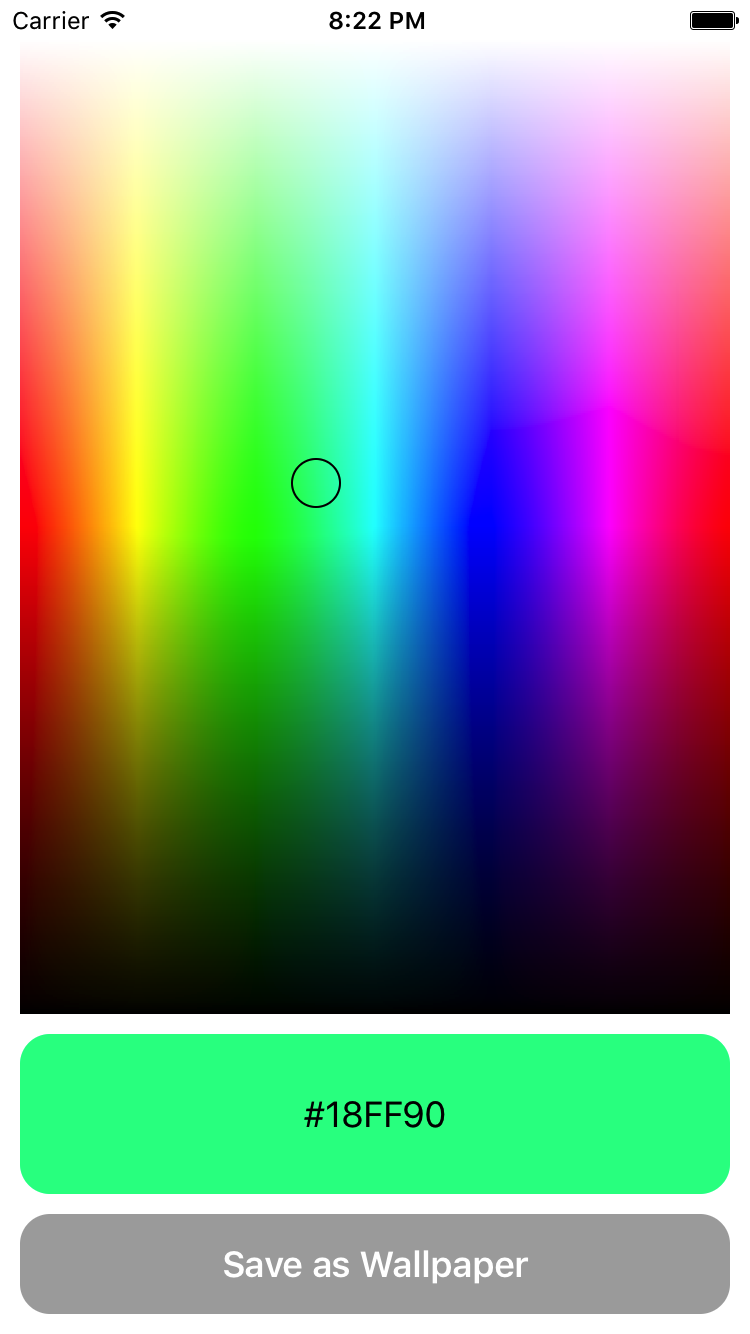
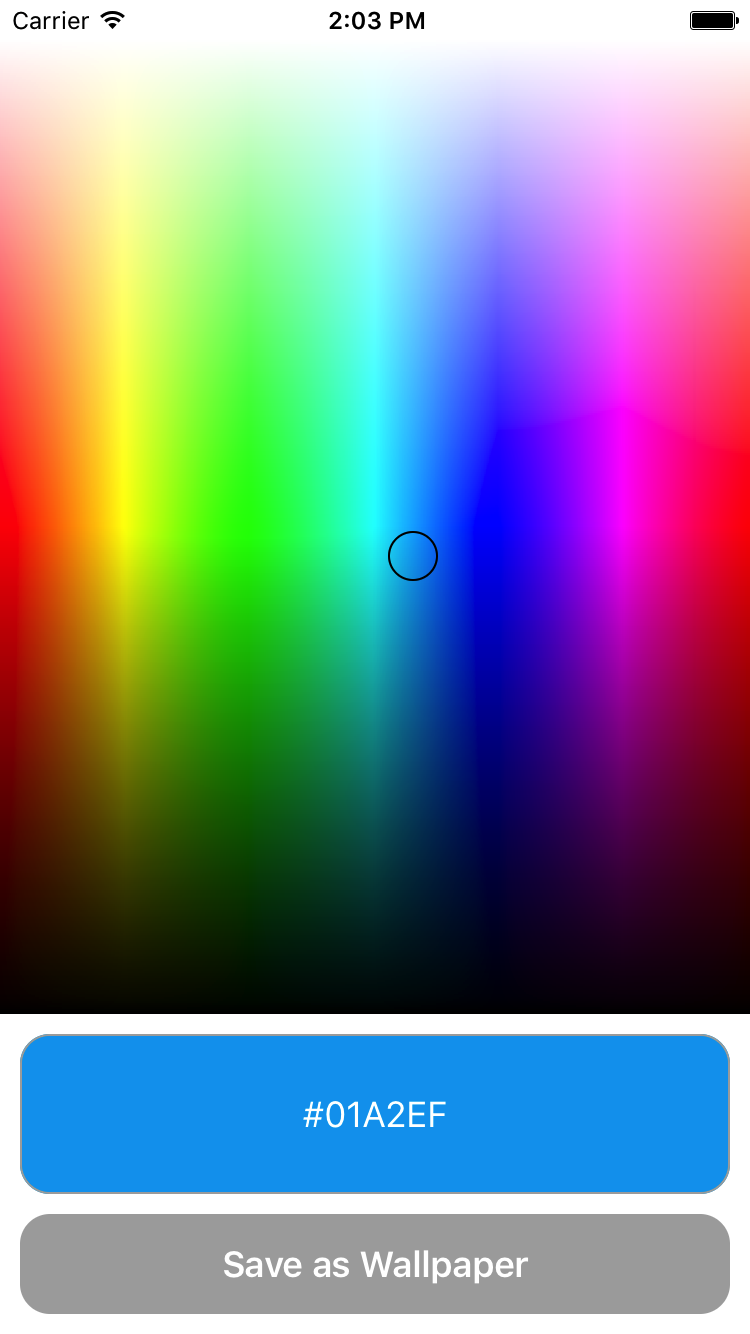
HEX code label color now dependent on background color
Adding a border
Changing up some constraints

diff --git a/ColorWallpaperCreator/ViewController.swift b/ColorWallpaperCreator/ViewController.swift
@@ -13,6 +13,7 @@ class ViewController: UIViewController {
 	private lazy var colorPickerView: ColorPickerView = {
 		let view = ColorPickerView()
 		view.translatesAutoresizingMaskIntoConstraints = false
+		view.isExclusiveTouch = true
 
 		return view
 	}()
@@ -26,6 +27,7 @@ class ViewController: UIViewController {
 		button.backgroundColor = .lightGray
 		button.layer.cornerRadius = 15.0
 		button.addTarget(self, action: #selector(saveColorAsImage), for: .touchUpInside)
+		button.isExclusiveTouch = true
 
 		return button
 	}()
@@ -47,13 +49,13 @@ class ViewController: UIViewController {
 
 	func setUpConstraints() {
 		NSLayoutConstraint.activate([
-			colorPickerView.leftAnchor.constraint(equalTo: view.leftAnchor, constant: 10),
-			colorPickerView.rightAnchor.constraint(equalTo: view.rightAnchor, constant: -10),
+			colorPickerView.leftAnchor.constraint(equalTo: view.leftAnchor),
+			colorPickerView.rightAnchor.constraint(equalTo: view.rightAnchor),
 			colorPickerView.topAnchor.constraint(equalTo: view.topAnchor, constant: 20),
 			colorPickerView.bottomAnchor.constraint(equalTo: saveColorButton.topAnchor, constant: -10),
 
-			saveColorButton.leftAnchor.constraint(equalTo: colorPickerView.leftAnchor),
-			saveColorButton.rightAnchor.constraint(equalTo: colorPickerView.rightAnchor),
+			saveColorButton.leftAnchor.constraint(equalTo: view.leftAnchor, constant: 10),
+			saveColorButton.rightAnchor.constraint(equalTo: view.rightAnchor, constant: -10),
 			saveColorButton.bottomAnchor.constraint(equalTo: view.bottomAnchor, constant: -10),
 			saveColorButton.heightAnchor.constraint(equalToConstant: 50)
 			])
@@ -88,7 +90,7 @@ class ViewController: UIViewController {
 		}
 
 		alertController.addAction(UIAlertAction(title: "Dismiss", style: .default))
-		
+
 		present(alertController, animated: true, completion: nil)
 	}
 }

diff --git a/ColorWallpaperCreator/ColorPickerView.swift b/ColorWallpaperCreator/ColorPickerView.swift
@@ -32,6 +32,8 @@ class ColorPickerView: UIView {
 		let view = UIView()
 		view.translatesAutoresizingMaskIntoConstraints = false
 		view.layer.cornerRadius = 15.0
+		view.layer.borderColor = UIColor.lightGray.cgColor
+		view.layer.borderWidth = 1.0
 
 		return view
 	}()
@@ -77,9 +79,9 @@ class ColorPickerView: UIView {
 			colorSliderNub.heightAnchor.constraint(equalToConstant: 25),
 			colorSliderNub.widthAnchor.constraint(equalTo: colorSliderNub.heightAnchor),
 
-			currentColorView.leftAnchor.constraint(equalTo: colorImageView.leftAnchor),
+			currentColorView.leftAnchor.constraint(equalTo: leftAnchor, constant: 10),
 			currentColorView.topAnchor.constraint(equalTo: colorImageView.bottomAnchor, constant: 10),
-			currentColorView.rightAnchor.constraint(equalTo: colorImageView.rightAnchor),
+			currentColorView.rightAnchor.constraint(equalTo: rightAnchor, constant: -10),
 			currentColorView.heightAnchor.constraint(equalToConstant: 80),
 
 			currentColorHexCodeLabel.leftAnchor.constraint(equalTo: currentColorView.leftAnchor),
@@ -92,6 +94,8 @@ class ColorPickerView: UIView {
 
 	private func setUpGestures() {
 		let panGesture = UIPanGestureRecognizer(target: self, action: #selector(panGestureHandler))
+		panGesture.maximumNumberOfTouches = 1
+
 		addGestureRecognizer(panGesture)
 	}
 
@@ -102,9 +106,10 @@ class ColorPickerView: UIView {
 		case .changed:
 			let color = colorImageView.layer.colorFromPoint(at: point)
 
-			if color.cgColor.alpha <= 0 { return }
+			if color.cgColor.alpha < 1 { return }
 
 			currentColorHexCodeLabel.text = color.hexString
+			currentColorHexCodeLabel.textColor = color.hexTextColor()
 
 			UIView.animate(withDuration: 0.1, animations: {
 				self.currentColorView.backgroundColor = color

diff --git a/ColorWallpaperCreator/Extensions.swift b/ColorWallpaperCreator/Extensions.swift
@@ -40,4 +40,16 @@ extension UIColor {
 
 		return String(format: "#%02lX%02lX%02lX", lroundf(Float(r * 255)), lroundf(Float(g * 255)), lroundf(Float(b * 255)))
 	}
+
+	private func intensity() -> CGFloat {
+		var red: CGFloat = 255.0, green: CGFloat = 255.0, blue: CGFloat = 255.0, alpha: CGFloat = 1.0
+
+		getRed(&red, green: &green, blue: &blue, alpha: &alpha)
+
+		return (red * 0.299 + green * 0.587 + blue * 0.114)
+	}
+
+	func hexTextColor() -> UIColor {
+		return intensity() > 0.50 ? .black : .white
+	}
 }
